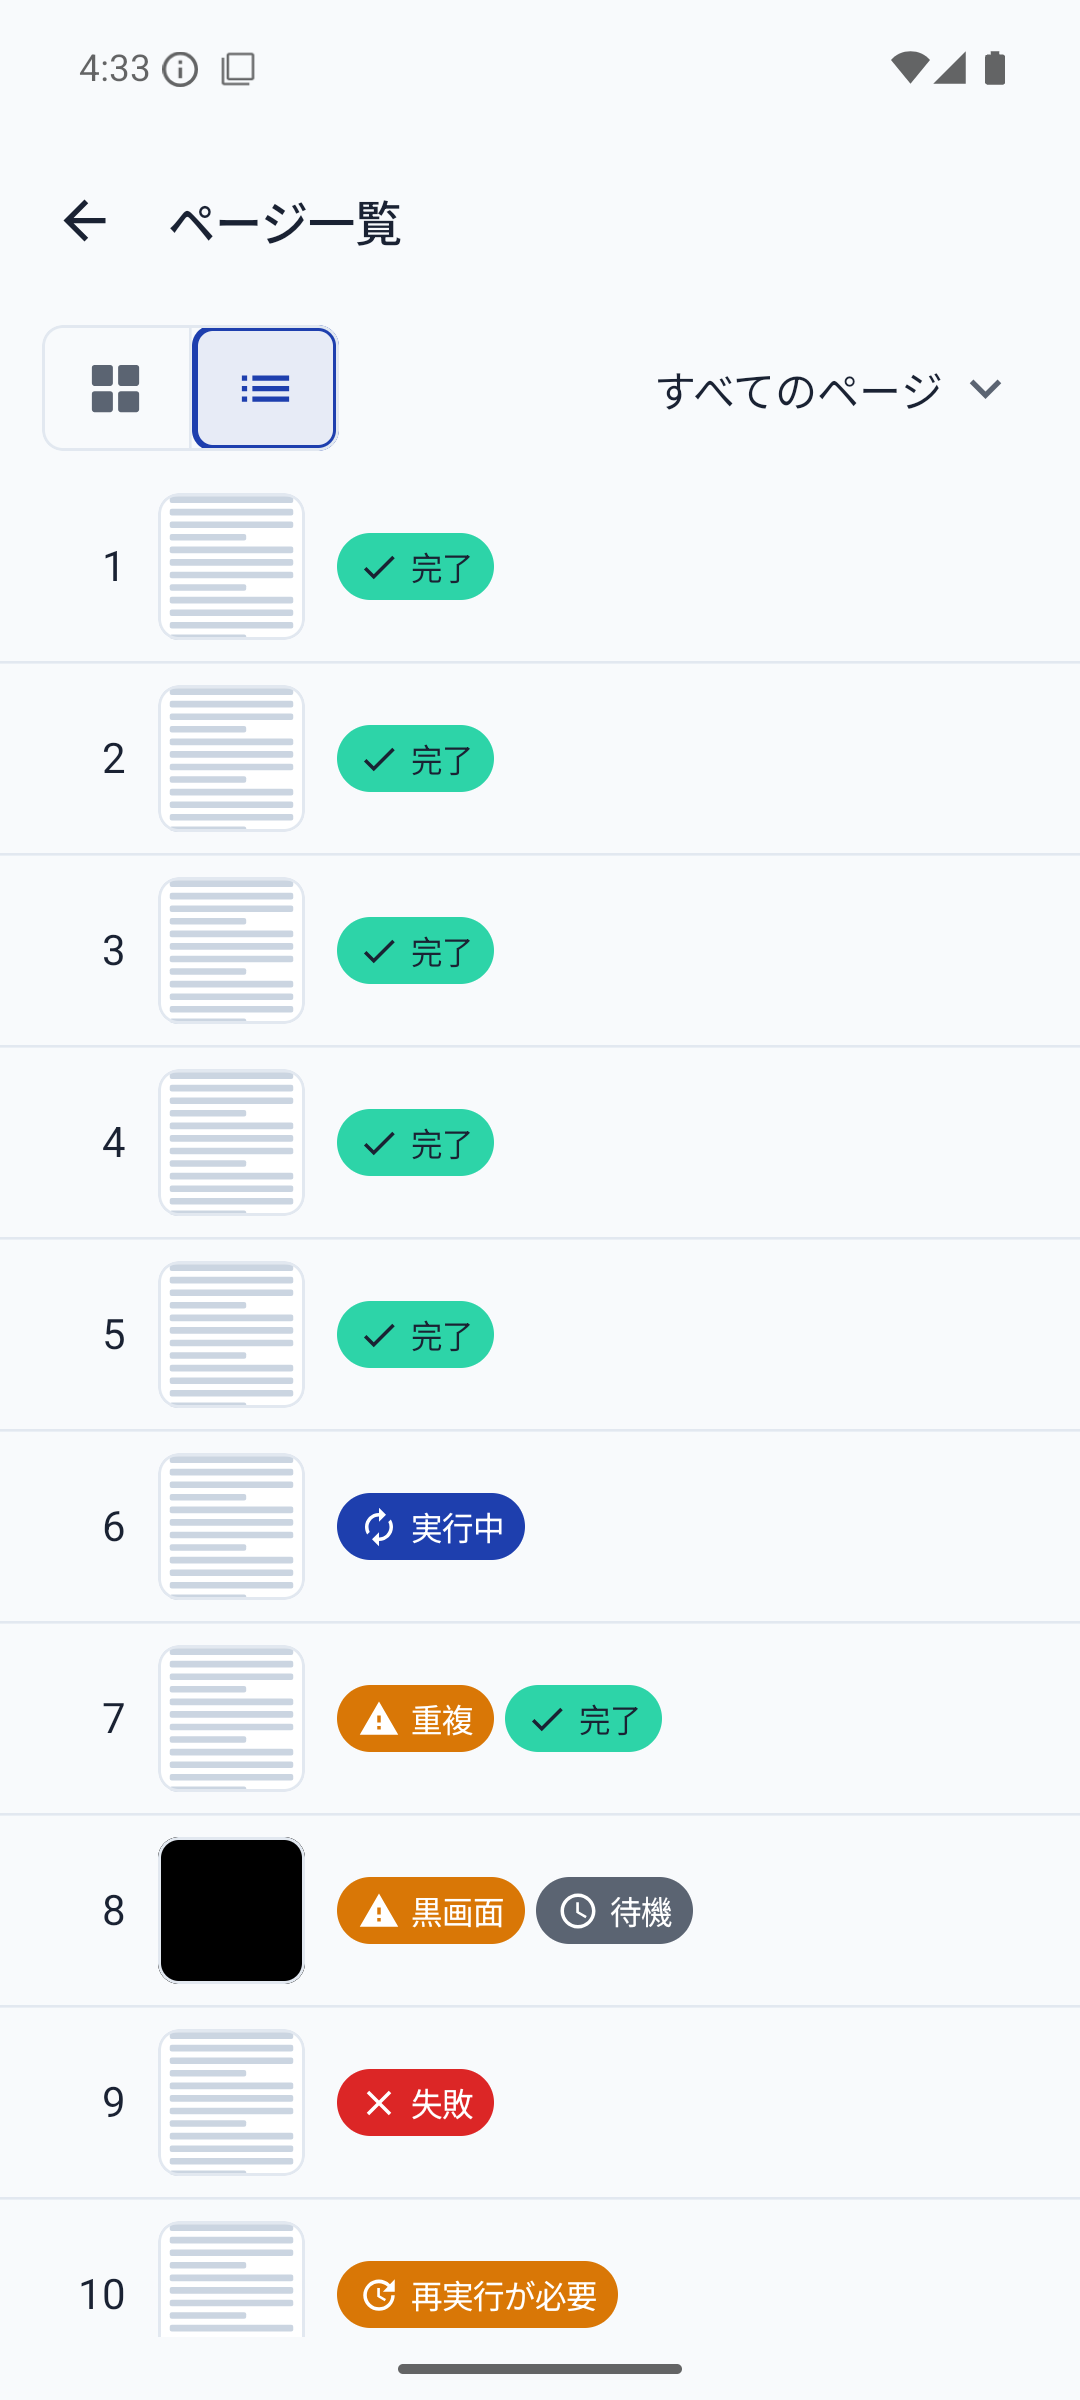
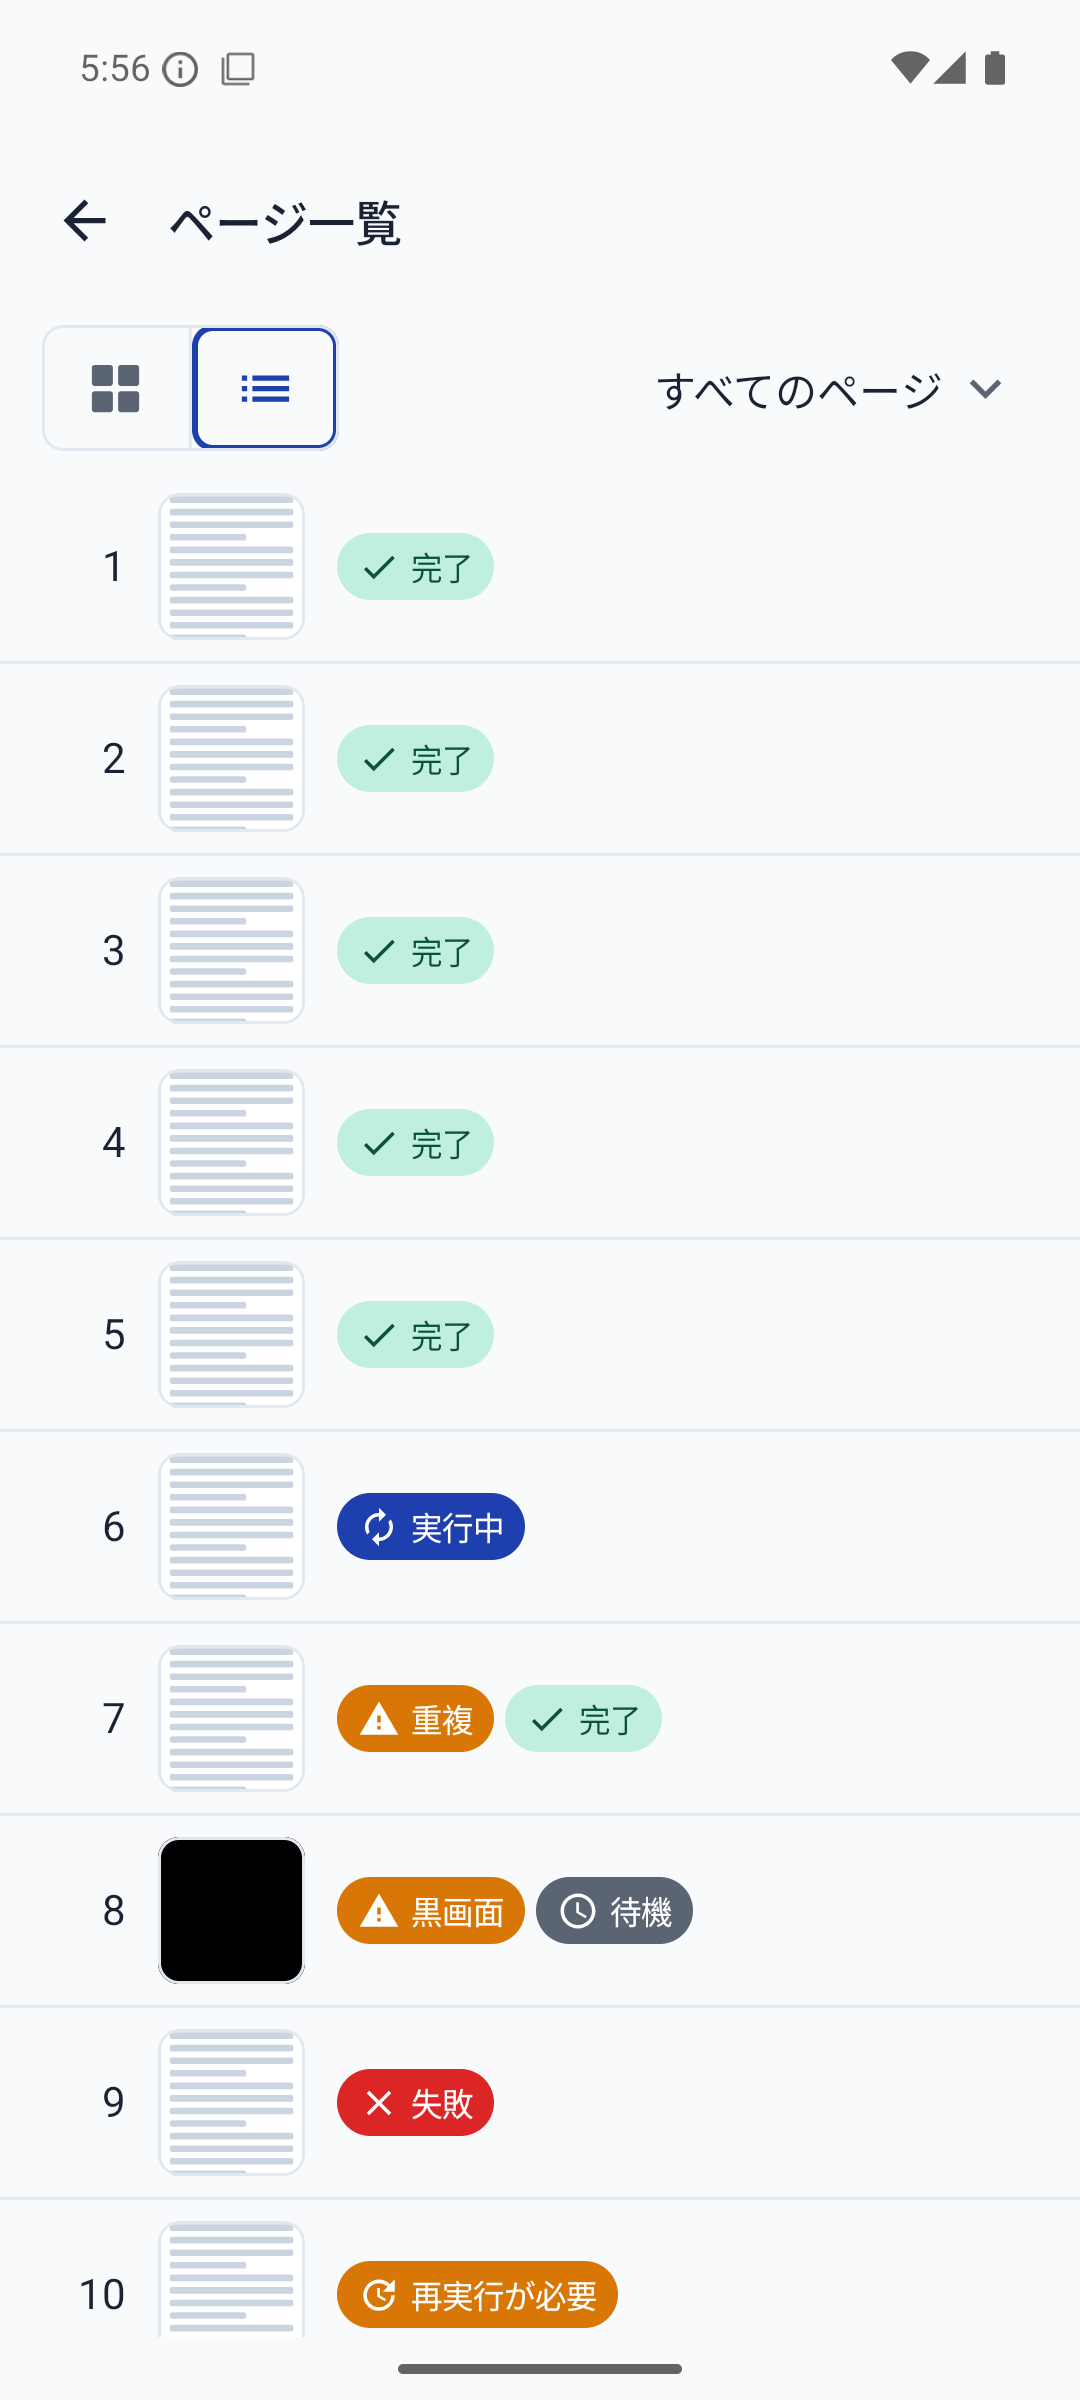
task pagebinder-snk.3: 実機UI検証の指摘を修正（メニュー地色・バッジ左寄せ・完了バッジ色・トグル）
必須2件:
- DropdownMenu の地色が Material3 既定のパープル（#F3EDF7）で出ていた。
  テーマの surfaceContainer 系と surfaceTint を `--color-surface` 白へ寄せる
  （トークンに紫系は無い）。書き出し画面のメニュー2箇所にも同じ修正が効く。
- グリッドの状態バッジをカード左下（左右8dpインセット）へ。モックは全セル左寄せ。
  長文バッジ（「再実行が必要」）が端の余白を食い潰さないよう end 側も 8dp 空ける。

軽微:
- 完了バッジを accent ベタ塗り+本文色から「accent の淡地 + 濃い accent の文字」へ。
  モックの見え方に合わせ、値は accent から機械的に導く（実測コントラスト 約7.5:1）。
- 表示切替トグルの選択側の地塗りを外し、枠線のみに（Secondary ボタンの様式・モックも地は背景のまま）。

「ページ順 ▼」の位置に警告フィルタを置く判断は維持（spec §3.1 に並び順機能が無い）。

スクリーンショットは2枚とも撮り直し（グリッド選択モード / リスト表示）。

diff --git a/app/src/main/java/com/pagebinder/app/ui/pagelist/PageStatusBadge.kt b/app/src/main/java/com/pagebinder/app/ui/pagelist/PageStatusBadge.kt
@@ -28,10 +28,10 @@ import androidx.compose.ui.unit.dp
 import com.pagebinder.app.R
 import com.pagebinder.app.domain.PageOcrState
 import com.pagebinder.app.domain.PageQualityState
-import com.pagebinder.app.ui.theme.ColorAccent
+import com.pagebinder.app.ui.theme.ColorAccentContainer
+import com.pagebinder.app.ui.theme.ColorAccentContent
 import com.pagebinder.app.ui.theme.ColorError
 import com.pagebinder.app.ui.theme.ColorPrimary
-import com.pagebinder.app.ui.theme.ColorText
 import com.pagebinder.app.ui.theme.ColorTextSecondary
 import com.pagebinder.app.ui.theme.ColorWarning
 
@@ -122,7 +122,7 @@ fun PageStatusBadgeRow(
 /**
  * 警告とOCR状態を縦に積む（グリッド表示用）。
  *
- * 3列のセル幅には pill を2つ横に並べられないので縦に積む。OCR状態はモックと同じ最下段に置き、
+ * 3列のセル幅には pill を2つ横に並べられないので縦に積む。OCR状態はモックと同じ最下段・左寄せに置き、
  * 警告があるページだけその上に警告バッジが増える形にして、モック
  * （docs/design/mockups/07-page-list.png）からの見た目の差を最小にしている。
  * どちらの表示でもOCR状態は必ず出す（docs/specs/08-page-editing.md §3.1）。
@@ -134,7 +134,7 @@ fun PageStatusBadgeStack(
 ) {
     Column(
         modifier = modifier,
-        horizontalAlignment = Alignment.CenterHorizontally,
+        horizontalAlignment = Alignment.Start,
         verticalArrangement = Arrangement.spacedBy(BADGE_ICON_GAP),
     ) {
         item.warningBadge?.let { warning ->
@@ -184,14 +184,14 @@ private fun BadgeIcon(
 
 /**
  * バッジの地色。
- * 「完了」だけが静かな表示（`--color-accent` 地 + 本文色）で、注意を引きたい状態は塗り+白文字にする
+ * 「完了」だけが静かな表示（accent の淡地 + 濃い accent の文字）で、注意を引きたい状態は塗り+白文字にする
  * — モック（docs/design/mockups/07-page-list.png）の見え方に合わせた使い分け。
  */
 private fun PageStatusBadge.containerColor(): Color =
     when (this) {
         PageStatusBadge.OCR_PENDING -> ColorTextSecondary
         PageStatusBadge.OCR_RUNNING -> ColorPrimary
-        PageStatusBadge.OCR_SUCCEEDED -> ColorAccent
+        PageStatusBadge.OCR_SUCCEEDED -> ColorAccentContainer
         PageStatusBadge.OCR_FAILED -> ColorError
         PageStatusBadge.OCR_STALE -> ColorWarning
         PageStatusBadge.WARNING_DUPLICATE, PageStatusBadge.WARNING_BLACK -> ColorWarning
@@ -200,8 +200,8 @@ private fun PageStatusBadge.containerColor(): Color =
 
 private fun PageStatusBadge.contentColor(): Color =
     when (this) {
-        // ミント地の上は白文字だとコントラストが足りないので本文色（原則: 本文コントラストは AA）
-        PageStatusBadge.OCR_SUCCEEDED -> ColorText
+        // ミントの淡地の上は白文字だとコントラストが足りないので濃い accent（約7.5:1）
+        PageStatusBadge.OCR_SUCCEEDED -> ColorAccentContent
         else -> Color.White
     }
 

diff --git a/app/src/main/java/com/pagebinder/app/ui/theme/Theme.kt b/app/src/main/java/com/pagebinder/app/ui/theme/Theme.kt
@@ -5,6 +5,7 @@ import androidx.compose.material3.Typography
 import androidx.compose.material3.lightColorScheme
 import androidx.compose.runtime.Composable
 import androidx.compose.ui.graphics.Color
+import androidx.compose.ui.graphics.lerp
 import androidx.compose.ui.text.TextStyle
 import androidx.compose.ui.text.font.FontWeight
 import androidx.compose.ui.unit.dp
@@ -22,6 +23,24 @@ val ColorDivider = Color(0xFFE2E8F0)
 val ColorError = Color(0xFFDC2626)
 val ColorWarning = Color(0xFFD97706)
 val ColorSuccess = Color(0xFF16A34A)
+
+/** モックの完了バッジ地（#AEEFDA 相当）に合わせた accent の白混ぜ率 */
+private const val ACCENT_CONTAINER_TINT = 0.38f
+
+/** 淡地の上で本文相当のコントラスト（実測 約7.5:1）を確保する accent の黒混ぜ率 */
+private const val ACCENT_CONTENT_SHADE = 0.5f
+
+/**
+ * 完了（succeeded）バッジの淡色地と文字色。
+ *
+ * docs/design/system/02-components.md は succeeded を `--color-accent` と定めるが、
+ * accent のベタ塗りでは白文字のコントラストが足りない。モック
+ * （docs/design/mockups/07-page-list.png）の完了バッジと同じ「accent の淡地 + 濃い accent の文字」で
+ * 実現する。値は accent から機械的に導き、パレットに無い色は新設しない
+ * （値の正本は docs/design/system/01-tokens.md）。
+ */
+val ColorAccentContainer = lerp(Color.White, ColorAccent, ACCENT_CONTAINER_TINT)
+val ColorAccentContent = lerp(ColorAccent, Color.Black, ACCENT_CONTENT_SHADE)
 
 // docs/design/system/01-tokens.md「余白・寸法」「角丸」
 val SpaceUnit = 8.dp
@@ -47,6 +66,18 @@ private val PageBinderColorScheme =
         onSurface = ColorText,
         surfaceVariant = ColorDivider,
         onSurfaceVariant = ColorTextSecondary,
+        // Material3 既定の surfaceContainer 系はパープル寄り（#F3EDF7 等）で、
+        // メニュー・シートの地色に出てしまう。トークンに紫系は無く、
+        // カード・シート・ダイアログは `--color-surface` 白（01-tokens.md）なので白へ寄せる
+        surfaceContainerLowest = ColorSurface,
+        surfaceContainerLow = ColorSurface,
+        surfaceContainer = ColorSurface,
+        surfaceContainerHigh = ColorSurface,
+        surfaceContainerHighest = ColorSurface,
+        surfaceBright = ColorSurface,
+        surfaceDim = ColorBackground,
+        // elevation による色被り（トーナル着色）を無効化する。影は控えめに、で足りる（01-tokens.md「角丸・影」）
+        surfaceTint = ColorSurface,
         error = ColorError,
         onError = Color.White,
         outline = ColorDivider,

diff --git a/app/src/main/java/com/pagebinder/app/ui/pagelist/PageListScreen.kt b/app/src/main/java/com/pagebinder/app/ui/pagelist/PageListScreen.kt
@@ -292,7 +292,11 @@ private fun ViewModeToggle(
     }
 }
 
-/** 選択側に primary の枠を付ける（docs/design/07-page-list.md「選択側に枠」） */
+/**
+ * 選択側に primary の枠を付ける（docs/design/07-page-list.md「選択側に枠」）。
+ * 地は塗らない — モックの選択側も地色は背景のままで、
+ * 様式は Secondary ボタン（枠線 primary・文字 primary・透明地。docs/design/system/02-components.md）に合わせる。
+ */
 @Composable
 private fun ViewModeButton(
     selected: Boolean,
@@ -307,9 +311,7 @@ private fun ViewModeButton(
                 .size(TOGGLE_BUTTON_WIDTH, MinTouchTarget)
                 .then(
                     if (selected) {
-                        Modifier
-                            .background(ColorPrimary.copy(alpha = SELECTED_SURFACE_ALPHA), selectionShape)
-                            .border(SELECTED_BORDER_WIDTH, ColorPrimary, selectionShape)
+                        Modifier.border(SELECTED_BORDER_WIDTH, ColorPrimary, selectionShape)
                     } else {
                         Modifier
                     },
@@ -476,12 +478,14 @@ private fun PageThumbnailCard(
                 targetWidth = GRID_THUMBNAIL_TARGET_WIDTH,
                 modifier = Modifier.fillMaxSize(),
             )
+            // モックはカード左下・左右とも8dpのインセット（docs/design/mockups/07-page-list.png）。
+            // 長文バッジ（「再実行が必要」）でも端の余白を食い潰さないよう end 側も同じだけ空ける
             PageStatusBadgeStack(
                 item = item,
                 modifier =
                     Modifier
-                        .align(Alignment.BottomCenter)
-                        .padding(bottom = SpaceUnit),
+                        .align(Alignment.BottomStart)
+                        .padding(start = SpaceUnit, end = SpaceUnit, bottom = SpaceUnit),
             )
         }
     }
